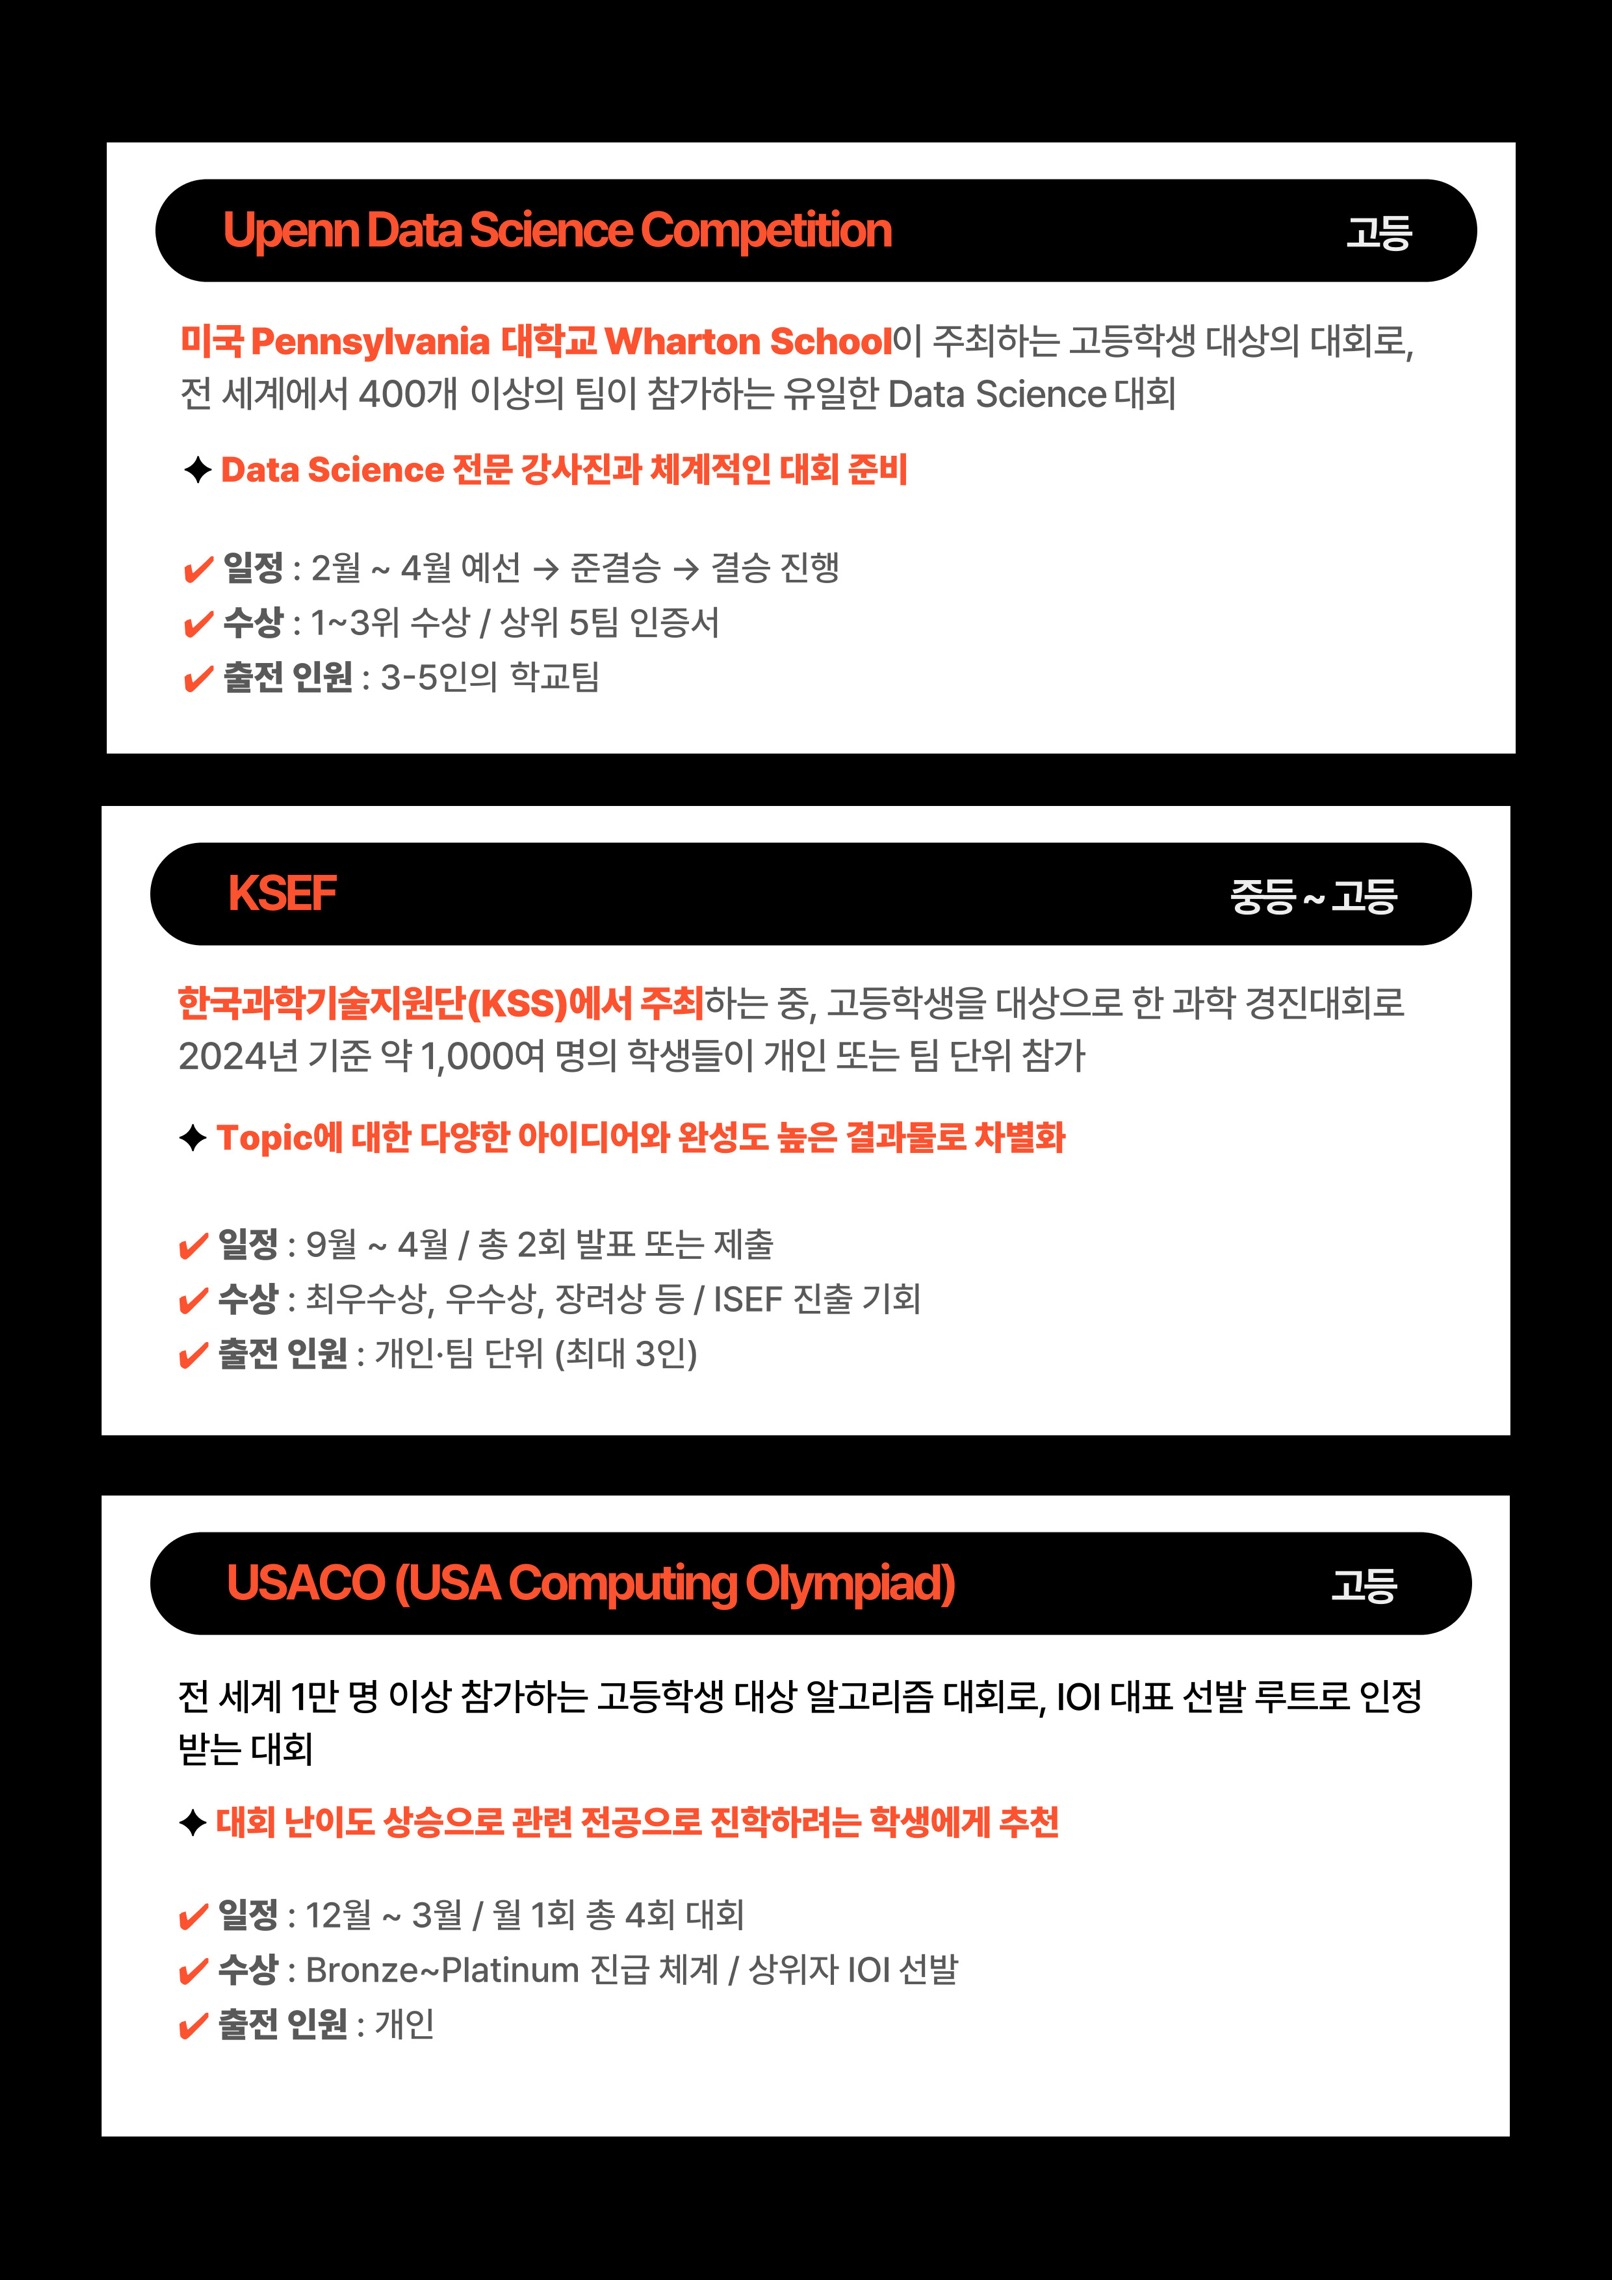
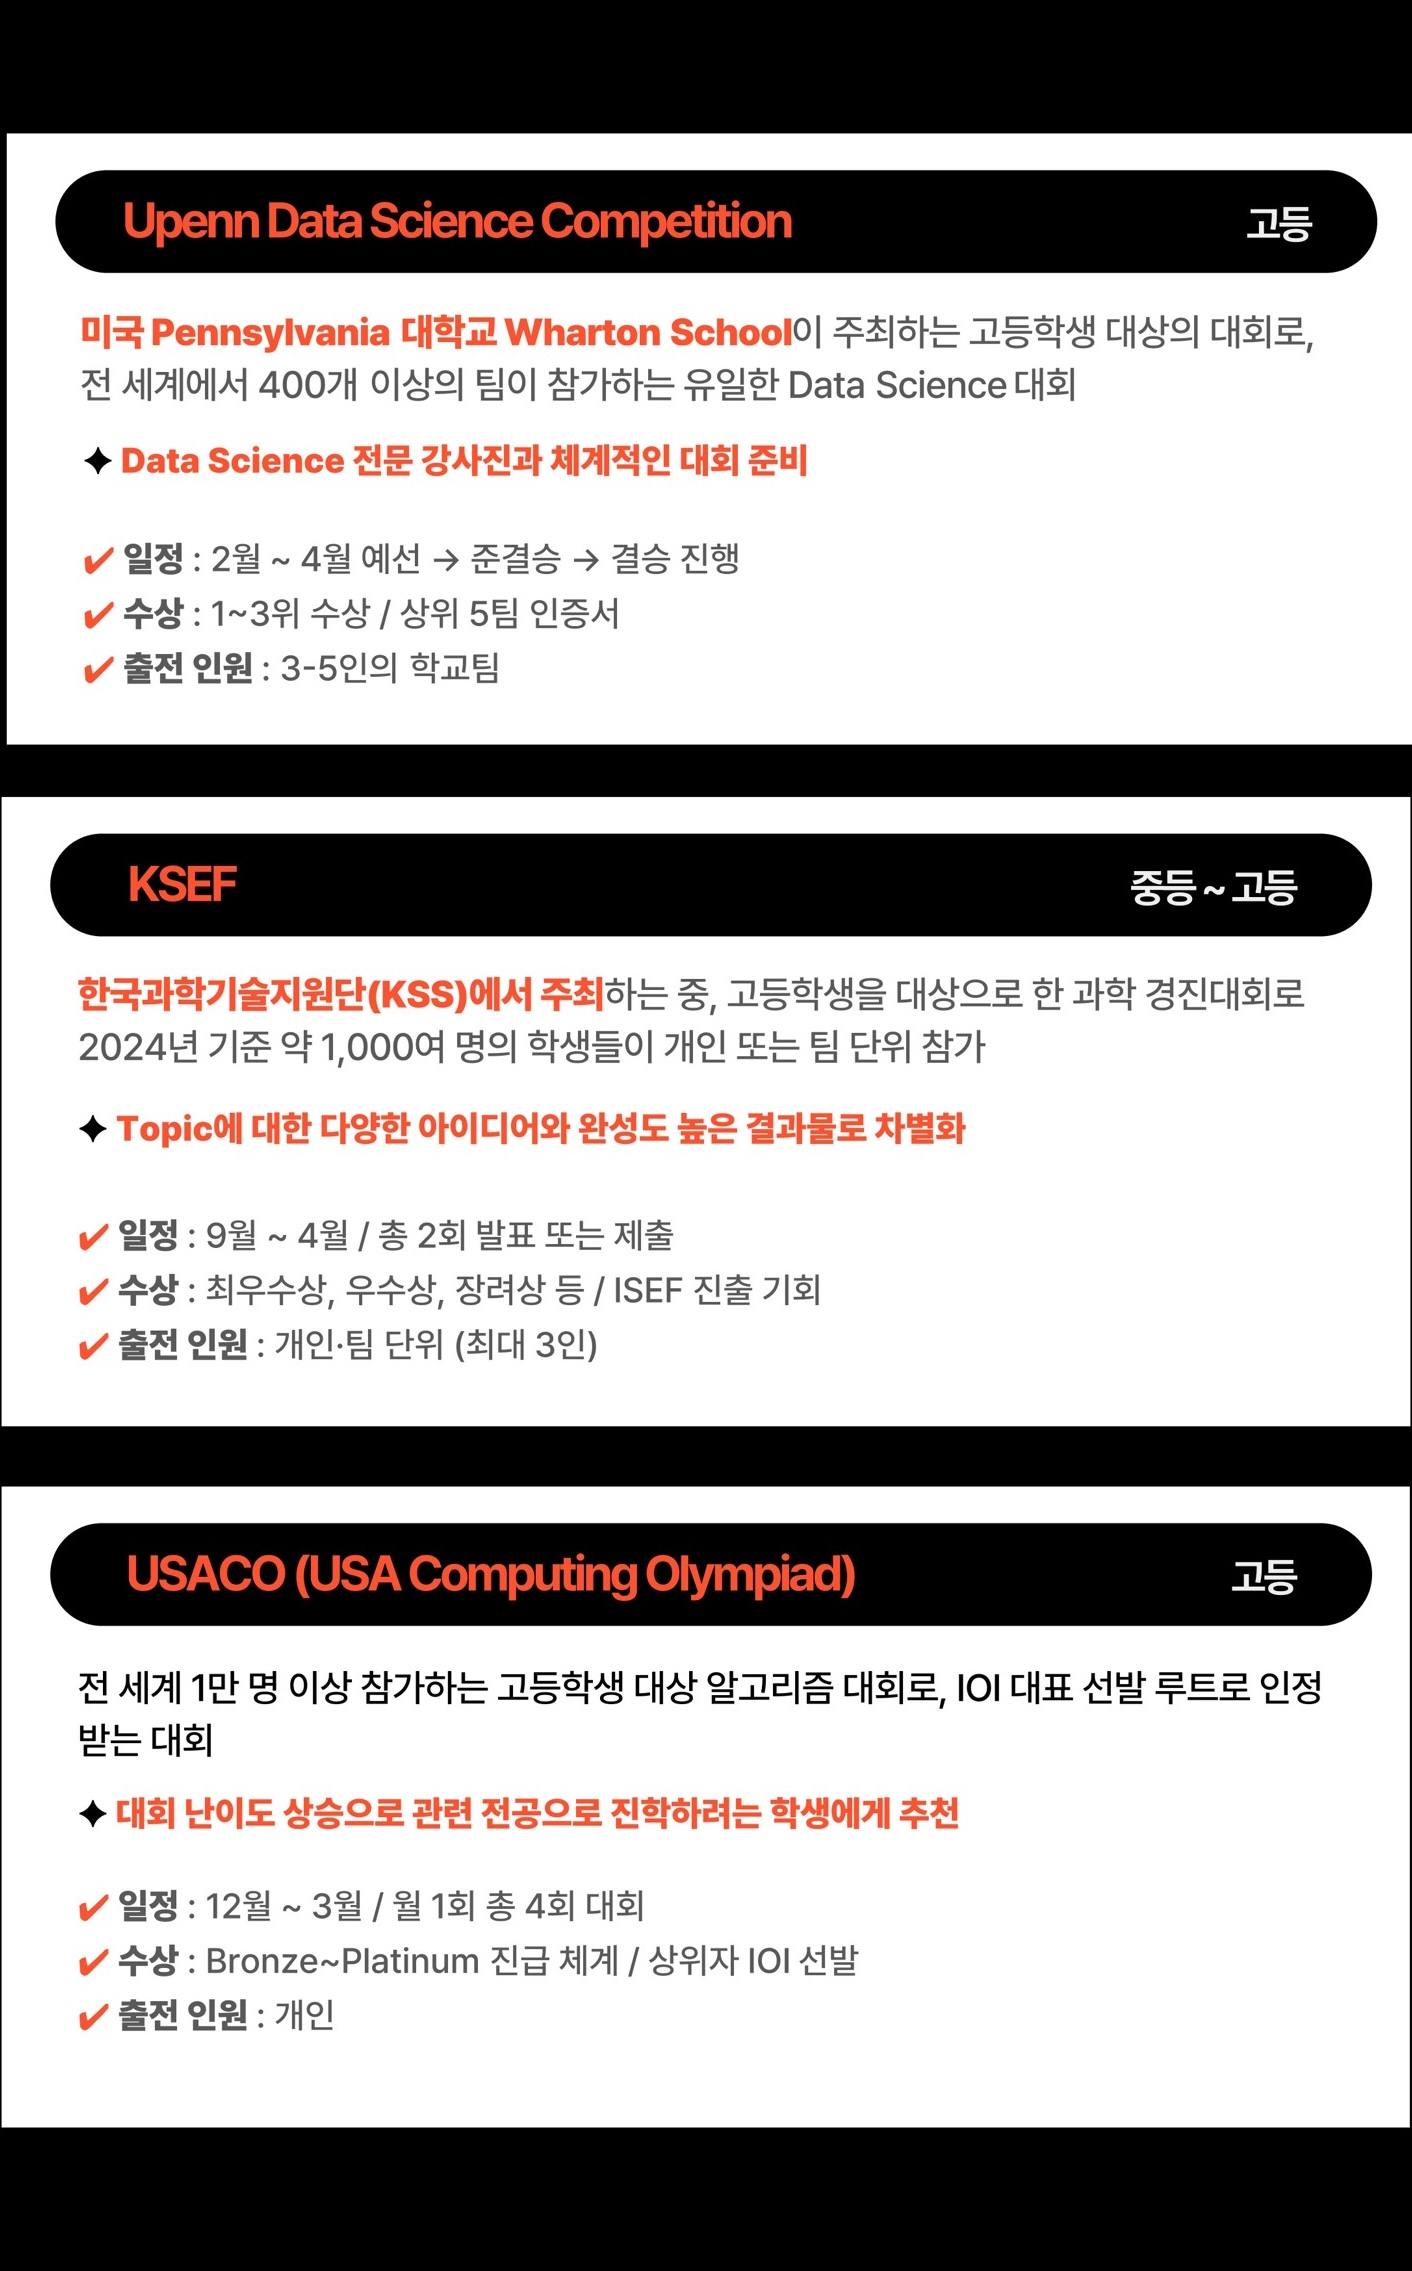
refactor: competition pages

Changed region(s): [[0.0, 0.0616, 1.0, 0.9555]]

diff --git a/src/pages/courses/competitions-jr.html b/src/pages/courses/competitions-jr.html
@@ -21,25 +21,26 @@
       <div
         class="flex h-16 w-full items-end bg-[linear-gradient(rgba(0,0,0,0.8),rgba(0,0,0,0.7)),url(../../assets/img/splash-2.png)] bg-cover bg-center bg-no-repeat sm:h-40"></div>
       <div class="border-in sticky top-0 z-10 w-full border-b border-neutral-300/60 bg-white">
-        <ul class="mx-auto mt-auto flex h-full max-w-screen-xl gap-6 px-4 lg:px-12">
+        <ul
+          class="mx-auto mt-auto flex h-full max-w-screen-xl gap-6 overflow-x-auto px-4 text-sm sm:text-base lg:px-12">
           <a
             href="/courses/fall"
-            class="hover:border-flamingo-400 cursor-pointer border-b-2 border-transparent px-2 py-4 font-normal transition hover:text-zinc-500">
+            class="hover:border-flamingo-400 cursor-pointer border-b-2 border-transparent px-2 py-3 font-normal text-nowrap transition hover:text-zinc-500 sm:py-4">
             가을학기 정규반
           </a>
           <a
             href="/courses/summer"
-            class="hover:border-flamingo-400 cursor-pointer border-b-2 border-transparent px-2 py-4 font-normal transition hover:text-zinc-500">
+            class="hover:border-flamingo-400 cursor-pointer border-b-2 border-transparent px-2 py-3 font-normal text-nowrap transition hover:text-zinc-500 sm:py-4">
             여름학기 정규반
           </a>
           <a
             href="/courses/competitions-jr"
-            class="border-flamingo-500 cursor-pointer border-b-2 px-2 py-4 font-normal">
+            class="border-flamingo-500 cursor-pointer border-b-2 px-2 py-3 font-normal text-nowrap sm:py-4">
             초등부 대회
           </a>
           <a
             href="/courses/competitions-sr"
-            class="hover:border-flamingo-400 cursor-pointer border-b-2 border-transparent px-2 py-4 font-normal transition hover:text-zinc-500">
+            class="hover:border-flamingo-400 cursor-pointer border-b-2 border-transparent px-2 py-3 font-normal text-nowrap transition hover:text-zinc-500 sm:py-4">
             중·고등부 대회
           </a>
         </ul>
@@ -59,9 +60,15 @@
       </div> -->
       <div class="w-full">
         <div class="bg-[#323232]">
-          <img src="/src/assets/img/contests/6.jpg" class="mx-auto w-full max-w-screen-lg" />
-          <img src="/src/assets/img/contests/7.jpg" class="mx-auto w-full max-w-screen-lg" />
-          <img src="/src/assets/img/contests/8.jpg" class="mx-auto w-full max-w-screen-lg" />
+          <img
+            src="/src/assets/img/contests/6.jpg"
+            class="mx-auto w-full max-w-screen-xl px-4 lg:px-12" />
+          <img
+            src="/src/assets/img/contests/7.jpg"
+            class="mx-auto w-full max-w-screen-xl px-4 lg:px-12" />
+          <img
+            src="/src/assets/img/contests/8.jpg"
+            class="mx-auto w-full max-w-screen-xl px-4 lg:px-12" />
         </div>
       </div>
     </main>

diff --git a/src/pages/courses/competitions-sr.html b/src/pages/courses/competitions-sr.html
@@ -21,25 +21,26 @@
       <div
         class="flex h-16 w-full items-end bg-[linear-gradient(rgba(0,0,0,0.8),rgba(0,0,0,0.7)),url(../../assets/img/splash-2.png)] bg-cover bg-center bg-no-repeat sm:h-40"></div>
       <div class="border-in sticky top-0 z-10 w-full border-b border-neutral-300/60 bg-white">
-        <ul class="mx-auto mt-auto flex h-full max-w-screen-xl gap-6 px-4 lg:px-12">
+        <ul
+          class="mx-auto mt-auto flex h-full max-w-screen-xl gap-6 overflow-x-auto px-4 text-sm sm:text-base lg:px-12">
           <a
             href="/courses/fall"
-            class="hover:border-flamingo-400 cursor-pointer border-b-2 border-transparent px-2 py-4 font-normal transition hover:text-zinc-500">
+            class="hover:border-flamingo-400 cursor-pointer border-b-2 border-transparent px-2 py-3 font-normal text-nowrap transition hover:text-zinc-500 sm:py-4">
             가을학기 정규반
           </a>
           <a
             href="/courses/summer"
-            class="hover:border-flamingo-400 cursor-pointer border-b-2 border-transparent px-2 py-4 font-normal transition hover:text-zinc-500">
+            class="hover:border-flamingo-400 cursor-pointer border-b-2 border-transparent px-2 py-3 font-normal text-nowrap transition hover:text-zinc-500 sm:py-4">
             여름학기 정규반
           </a>
           <a
             href="/courses/competitions-jr"
-            class="hover:border-flamingo-400 cursor-pointer border-b-2 border-transparent px-2 py-4 font-normal transition hover:text-zinc-500">
+            class="hover:border-flamingo-400 cursor-pointer border-b-2 border-transparent px-2 py-3 font-normal text-nowrap transition hover:text-zinc-500 sm:py-4">
             초등부 대회
           </a>
           <a
             href="/courses/competitions-sr"
-            class="border-flamingo-500 cursor-pointer border-b-2 px-2 py-4 font-normal">
+            class="border-flamingo-500 cursor-pointer border-b-2 px-2 py-3 font-normal text-nowrap sm:py-4">
             중·고등부 대회
           </a>
         </ul>
@@ -59,9 +60,15 @@
       </div> -->
       <div class="w-full">
         <div class="bg-black">
-          <img src="/src/assets/img/contests/3.jpg" class="mx-auto w-full max-w-screen-lg" />
-          <img src="/src/assets/img/contests/4.jpg" class="mx-auto w-full max-w-screen-lg" />
-          <img src="/src/assets/img/contests/5.jpg" class="mx-auto w-full max-w-screen-lg" />
+          <img
+            src="/src/assets/img/contests/3.jpg"
+            class="mx-auto w-full max-w-screen-xl px-4 lg:px-12" />
+          <img
+            src="/src/assets/img/contests/4.jpg"
+            class="mx-auto w-full max-w-screen-xl px-4 lg:px-12" />
+          <img
+            src="/src/assets/img/contests/5.jpg"
+            class="mx-auto w-full max-w-screen-xl px-4 lg:px-12" />
         </div>
       </div>
     </main>

diff --git a/src/pages/courses/fall.html b/src/pages/courses/fall.html
@@ -21,25 +21,26 @@
       <div
         class="flex h-16 w-full items-end bg-[linear-gradient(rgba(0,0,0,0.8),rgba(0,0,0,0.7)),url(../../assets/img/splash-2.png)] bg-cover bg-center bg-no-repeat sm:h-40"></div>
       <div class="border-in sticky top-0 z-10 w-full border-b border-neutral-300/60 bg-white">
-        <ul class="mx-auto mt-auto flex h-full max-w-screen-xl gap-6 px-4 lg:px-12">
+        <ul
+          class="mx-auto mt-auto flex h-full max-w-screen-xl gap-6 overflow-x-auto px-4 text-sm sm:text-base lg:px-12">
           <a
             href="/courses/fall"
-            class="border-flamingo-500 cursor-pointer border-b-2 px-2 py-4 font-normal">
+            class="border-flamingo-500 cursor-pointer border-b-2 px-2 py-3 font-normal text-nowrap sm:py-4">
             가을학기 정규반
           </a>
           <a
             href="/courses/summer"
-            class="hover:border-flamingo-400 cursor-pointer border-b-2 border-transparent px-2 py-4 font-normal transition hover:text-zinc-500">
+            class="hover:border-flamingo-400 cursor-pointer border-b-2 border-transparent px-2 py-3 font-normal text-nowrap transition hover:text-zinc-500 sm:py-4">
             여름학기 정규반
           </a>
           <a
             href="/courses/competitions-jr"
-            class="hover:border-flamingo-400 cursor-pointer border-b-2 border-transparent px-2 py-4 font-normal transition hover:text-zinc-500">
+            class="hover:border-flamingo-400 cursor-pointer border-b-2 border-transparent px-2 py-3 font-normal text-nowrap transition hover:text-zinc-500 sm:py-4">
             초등부 대회
           </a>
           <a
             href="/courses/competitions-sr"
-            class="hover:border-flamingo-400 cursor-pointer border-b-2 border-transparent px-2 py-4 font-normal transition hover:text-zinc-500">
+            class="hover:border-flamingo-400 cursor-pointer border-b-2 border-transparent px-2 py-3 font-normal text-nowrap transition hover:text-zinc-500 sm:py-4">
             중·고등부 대회
           </a>
         </ul>

diff --git a/src/pages/courses/summer.html b/src/pages/courses/summer.html
@@ -21,25 +21,26 @@
       <div
         class="flex h-16 w-full items-end bg-[linear-gradient(rgba(0,0,0,0.8),rgba(0,0,0,0.7)),url(../../assets/img/splash-2.png)] bg-cover bg-center bg-no-repeat sm:h-40"></div>
       <div class="border-in sticky top-0 z-10 w-full border-b border-neutral-300/60 bg-white">
-        <ul class="mx-auto mt-auto flex h-full max-w-screen-xl gap-6 px-4 lg:px-12">
+        <ul
+          class="mx-auto mt-auto flex h-full max-w-screen-xl gap-6 overflow-x-auto px-4 text-sm sm:text-base lg:px-12">
           <a
             href="/courses/fall"
-            class="hover:border-flamingo-400 cursor-pointer border-b-2 border-transparent px-2 py-4 font-normal transition hover:text-zinc-500">
+            class="hover:border-flamingo-400 cursor-pointer border-b-2 border-transparent px-2 py-3 font-normal text-nowrap transition hover:text-zinc-500 sm:py-4">
             가을학기 정규반
           </a>
           <a
             href="/courses/summer"
-            class="border-flamingo-500 cursor-pointer border-b-2 px-2 py-4 font-normal">
+            class="border-flamingo-500 cursor-pointer border-b-2 px-2 py-3 font-normal text-nowrap sm:py-4">
             여름학기 정규반
           </a>
           <a
             href="/courses/competitions-jr"
-            class="hover:border-flamingo-400 cursor-pointer border-b-2 border-transparent px-2 py-4 font-normal transition hover:text-zinc-500">
+            class="hover:border-flamingo-400 cursor-pointer border-b-2 border-transparent px-2 py-3 font-normal text-nowrap transition hover:text-zinc-500 sm:py-4">
             초등부 대회
           </a>
           <a
             href="/courses/competitions-sr"
-            class="hover:border-flamingo-400 cursor-pointer border-b-2 border-transparent px-2 py-4 font-normal transition hover:text-zinc-500">
+            class="hover:border-flamingo-400 cursor-pointer border-b-2 border-transparent px-2 py-3 font-normal text-nowrap transition hover:text-zinc-500 sm:py-4">
             중·고등부 대회
           </a>
         </ul>

diff --git a/src/pages/competitions/jr.html b/src/pages/competitions/jr.html
@@ -49,9 +49,15 @@
       </div> -->
       <div class="w-full">
         <div class="bg-[#323232]">
-          <img src="/src/assets/img/contests/6.jpg" class="mx-auto w-full max-w-screen-lg" />
-          <img src="/src/assets/img/contests/7.jpg" class="mx-auto w-full max-w-screen-lg" />
-          <img src="/src/assets/img/contests/8.jpg" class="mx-auto w-full max-w-screen-lg" />
+          <img
+            src="/src/assets/img/contests/6.jpg"
+            class="mx-auto w-full max-w-screen-xl px-4 lg:px-12" />
+          <img
+            src="/src/assets/img/contests/7.jpg"
+            class="mx-auto w-full max-w-screen-xl px-4 lg:px-12" />
+          <img
+            src="/src/assets/img/contests/8.jpg"
+            class="mx-auto w-full max-w-screen-xl px-4 lg:px-12" />
         </div>
       </div>
     </main>

diff --git a/src/pages/competitions/sr.html b/src/pages/competitions/sr.html
@@ -49,9 +49,15 @@
       </div> -->
       <div class="w-full">
         <div class="bg-black">
-          <img src="/src/assets/img/contests/3.jpg" class="mx-auto w-full max-w-screen-lg" />
-          <img src="/src/assets/img/contests/4.jpg" class="mx-auto w-full max-w-screen-lg" />
-          <img src="/src/assets/img/contests/5.jpg" class="mx-auto w-full max-w-screen-lg" />
+          <img
+            src="/src/assets/img/contests/3.jpg"
+            class="mx-auto w-full max-w-screen-xl px-4 lg:px-12" />
+          <img
+            src="/src/assets/img/contests/4.jpg"
+            class="mx-auto w-full max-w-screen-xl px-4 lg:px-12" />
+          <img
+            src="/src/assets/img/contests/5.jpg"
+            class="mx-auto w-full max-w-screen-xl px-4 lg:px-12" />
         </div>
       </div>
     </main>

diff --git a/scripts/redirects.config.js b/scripts/redirects.config.js
@@ -5,7 +5,7 @@ module.exports = {
   '/horizon': '/capstone/horizon',
   '/gpt': '/capstone/gpt',
   '/team': '/about#team',
-  '/competitions': '/competitions/jr',
-  '/contests': '/courses/competitions-jr',
+  '/competitions': '/competitions/sr',
+  '/contests': '/courses/competitions-sr',
   '/courses': '/courses/fall',
 };
